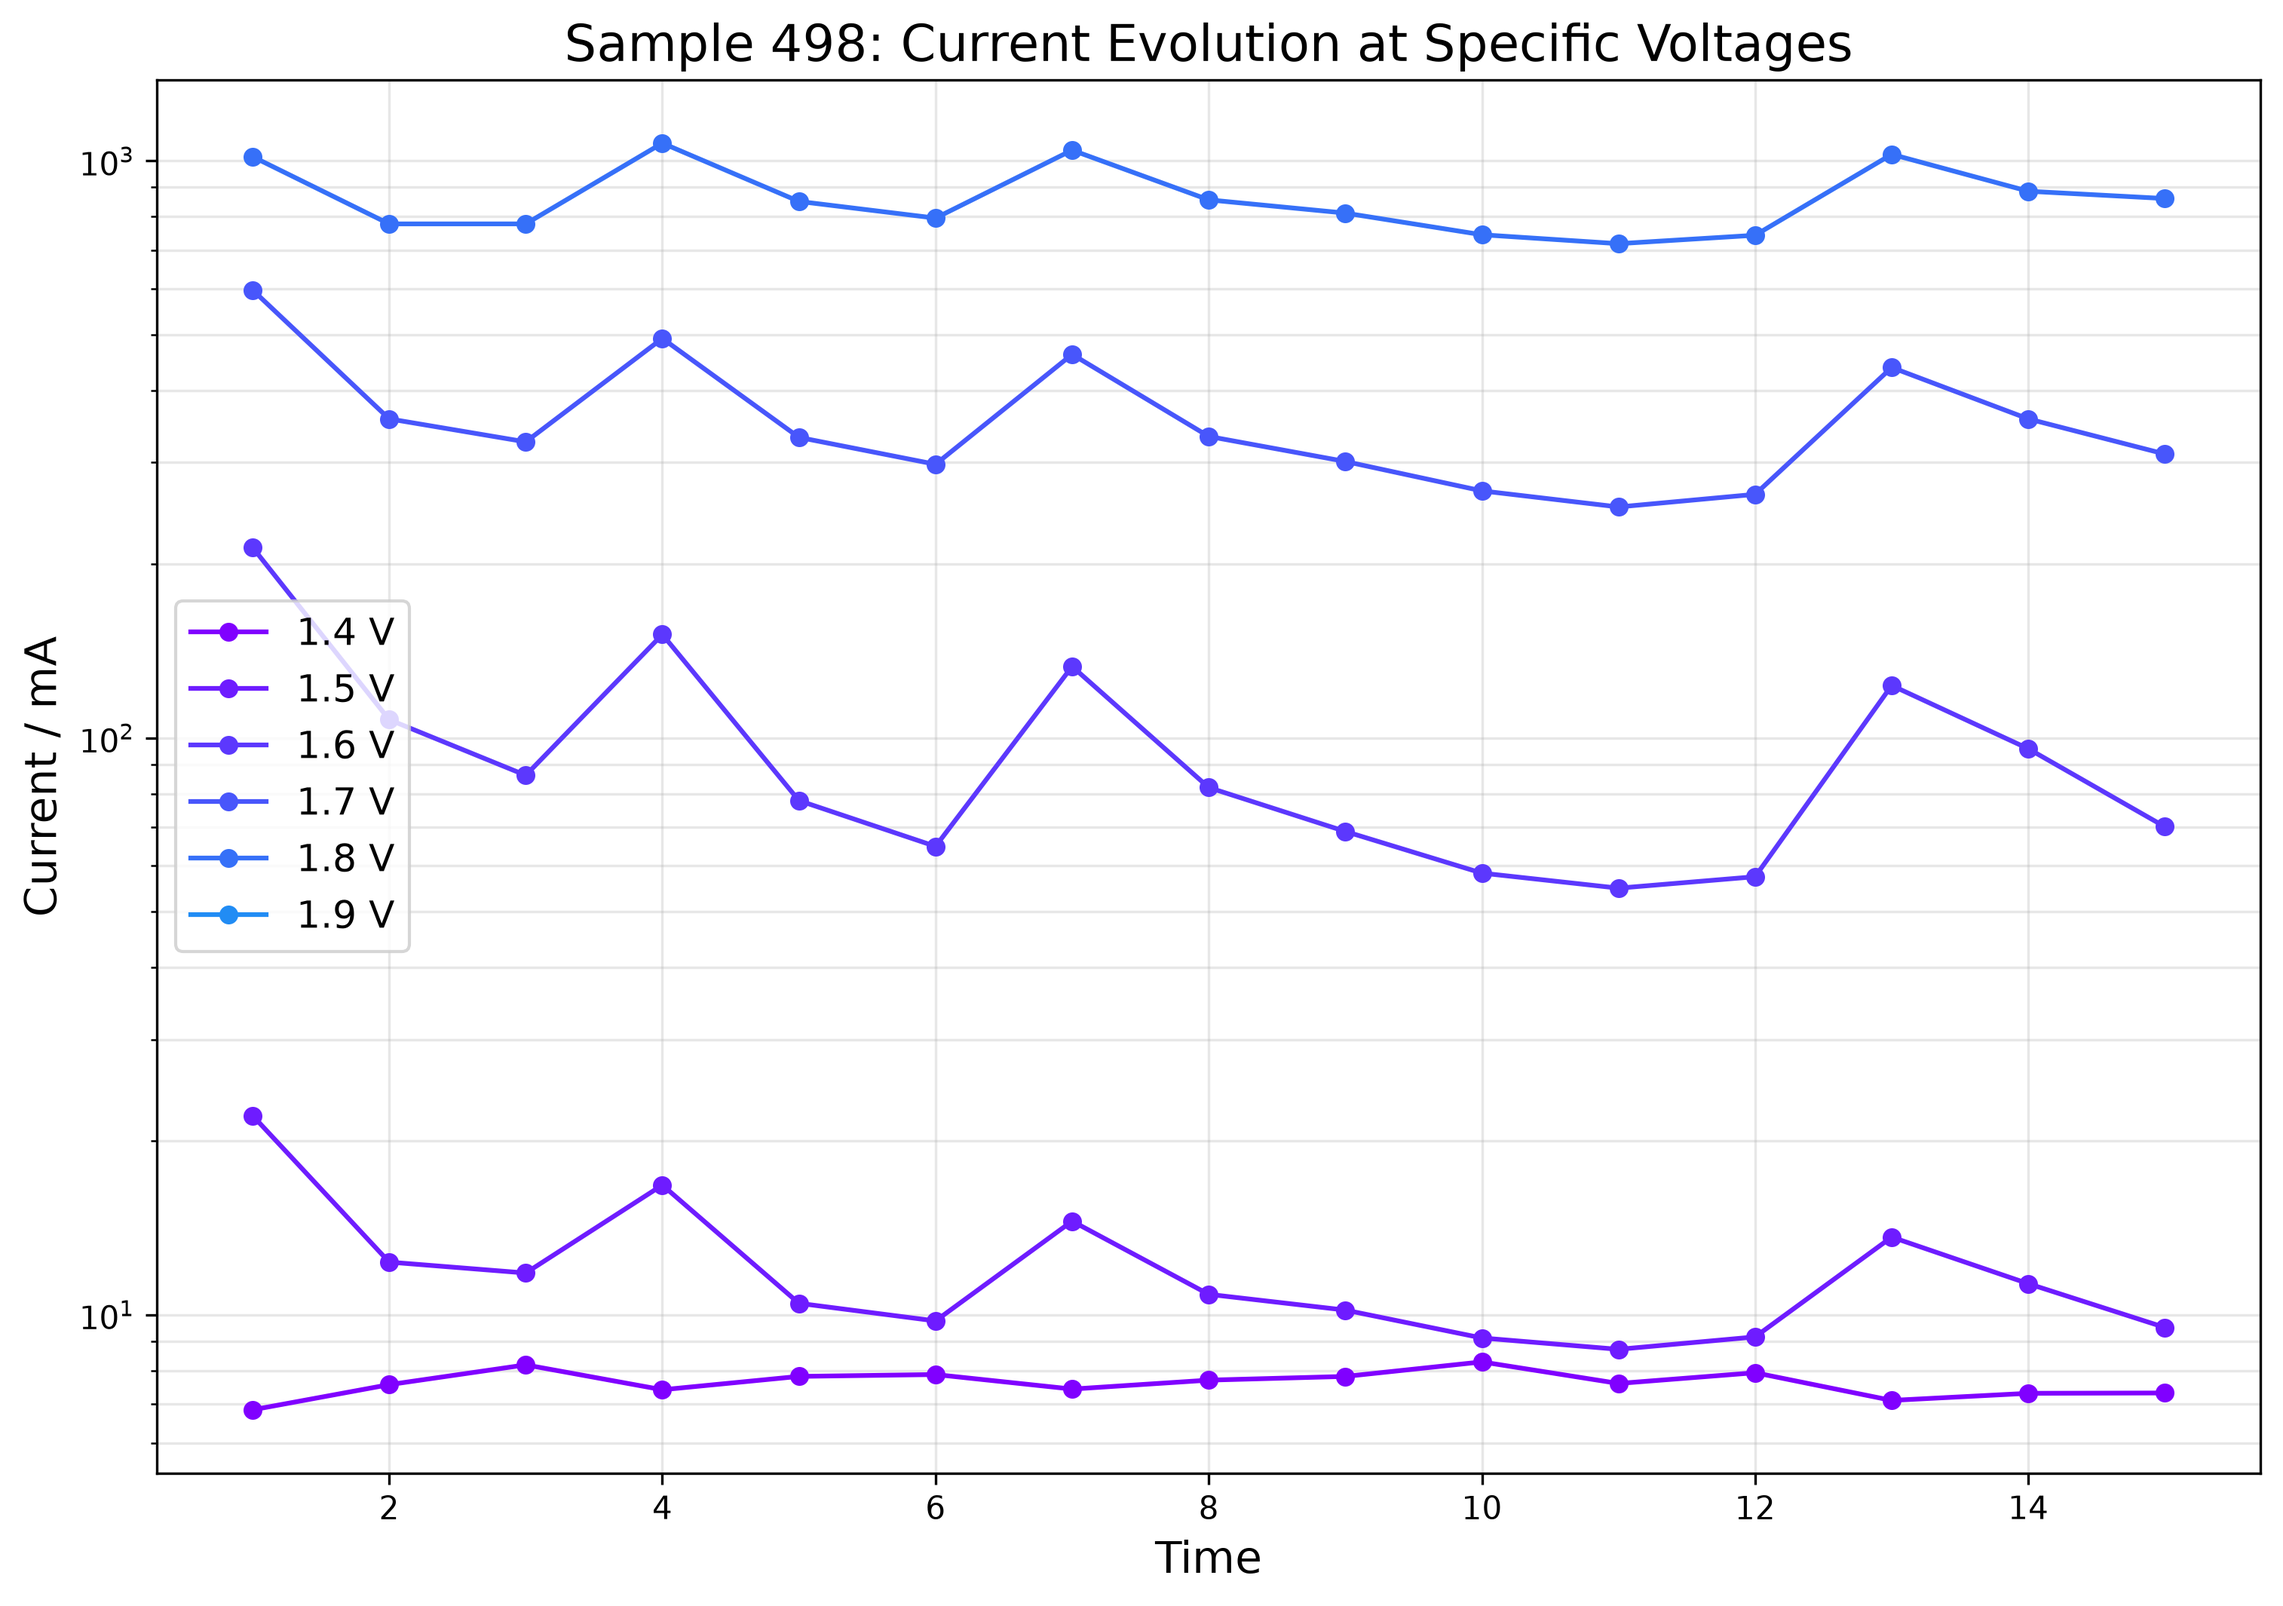
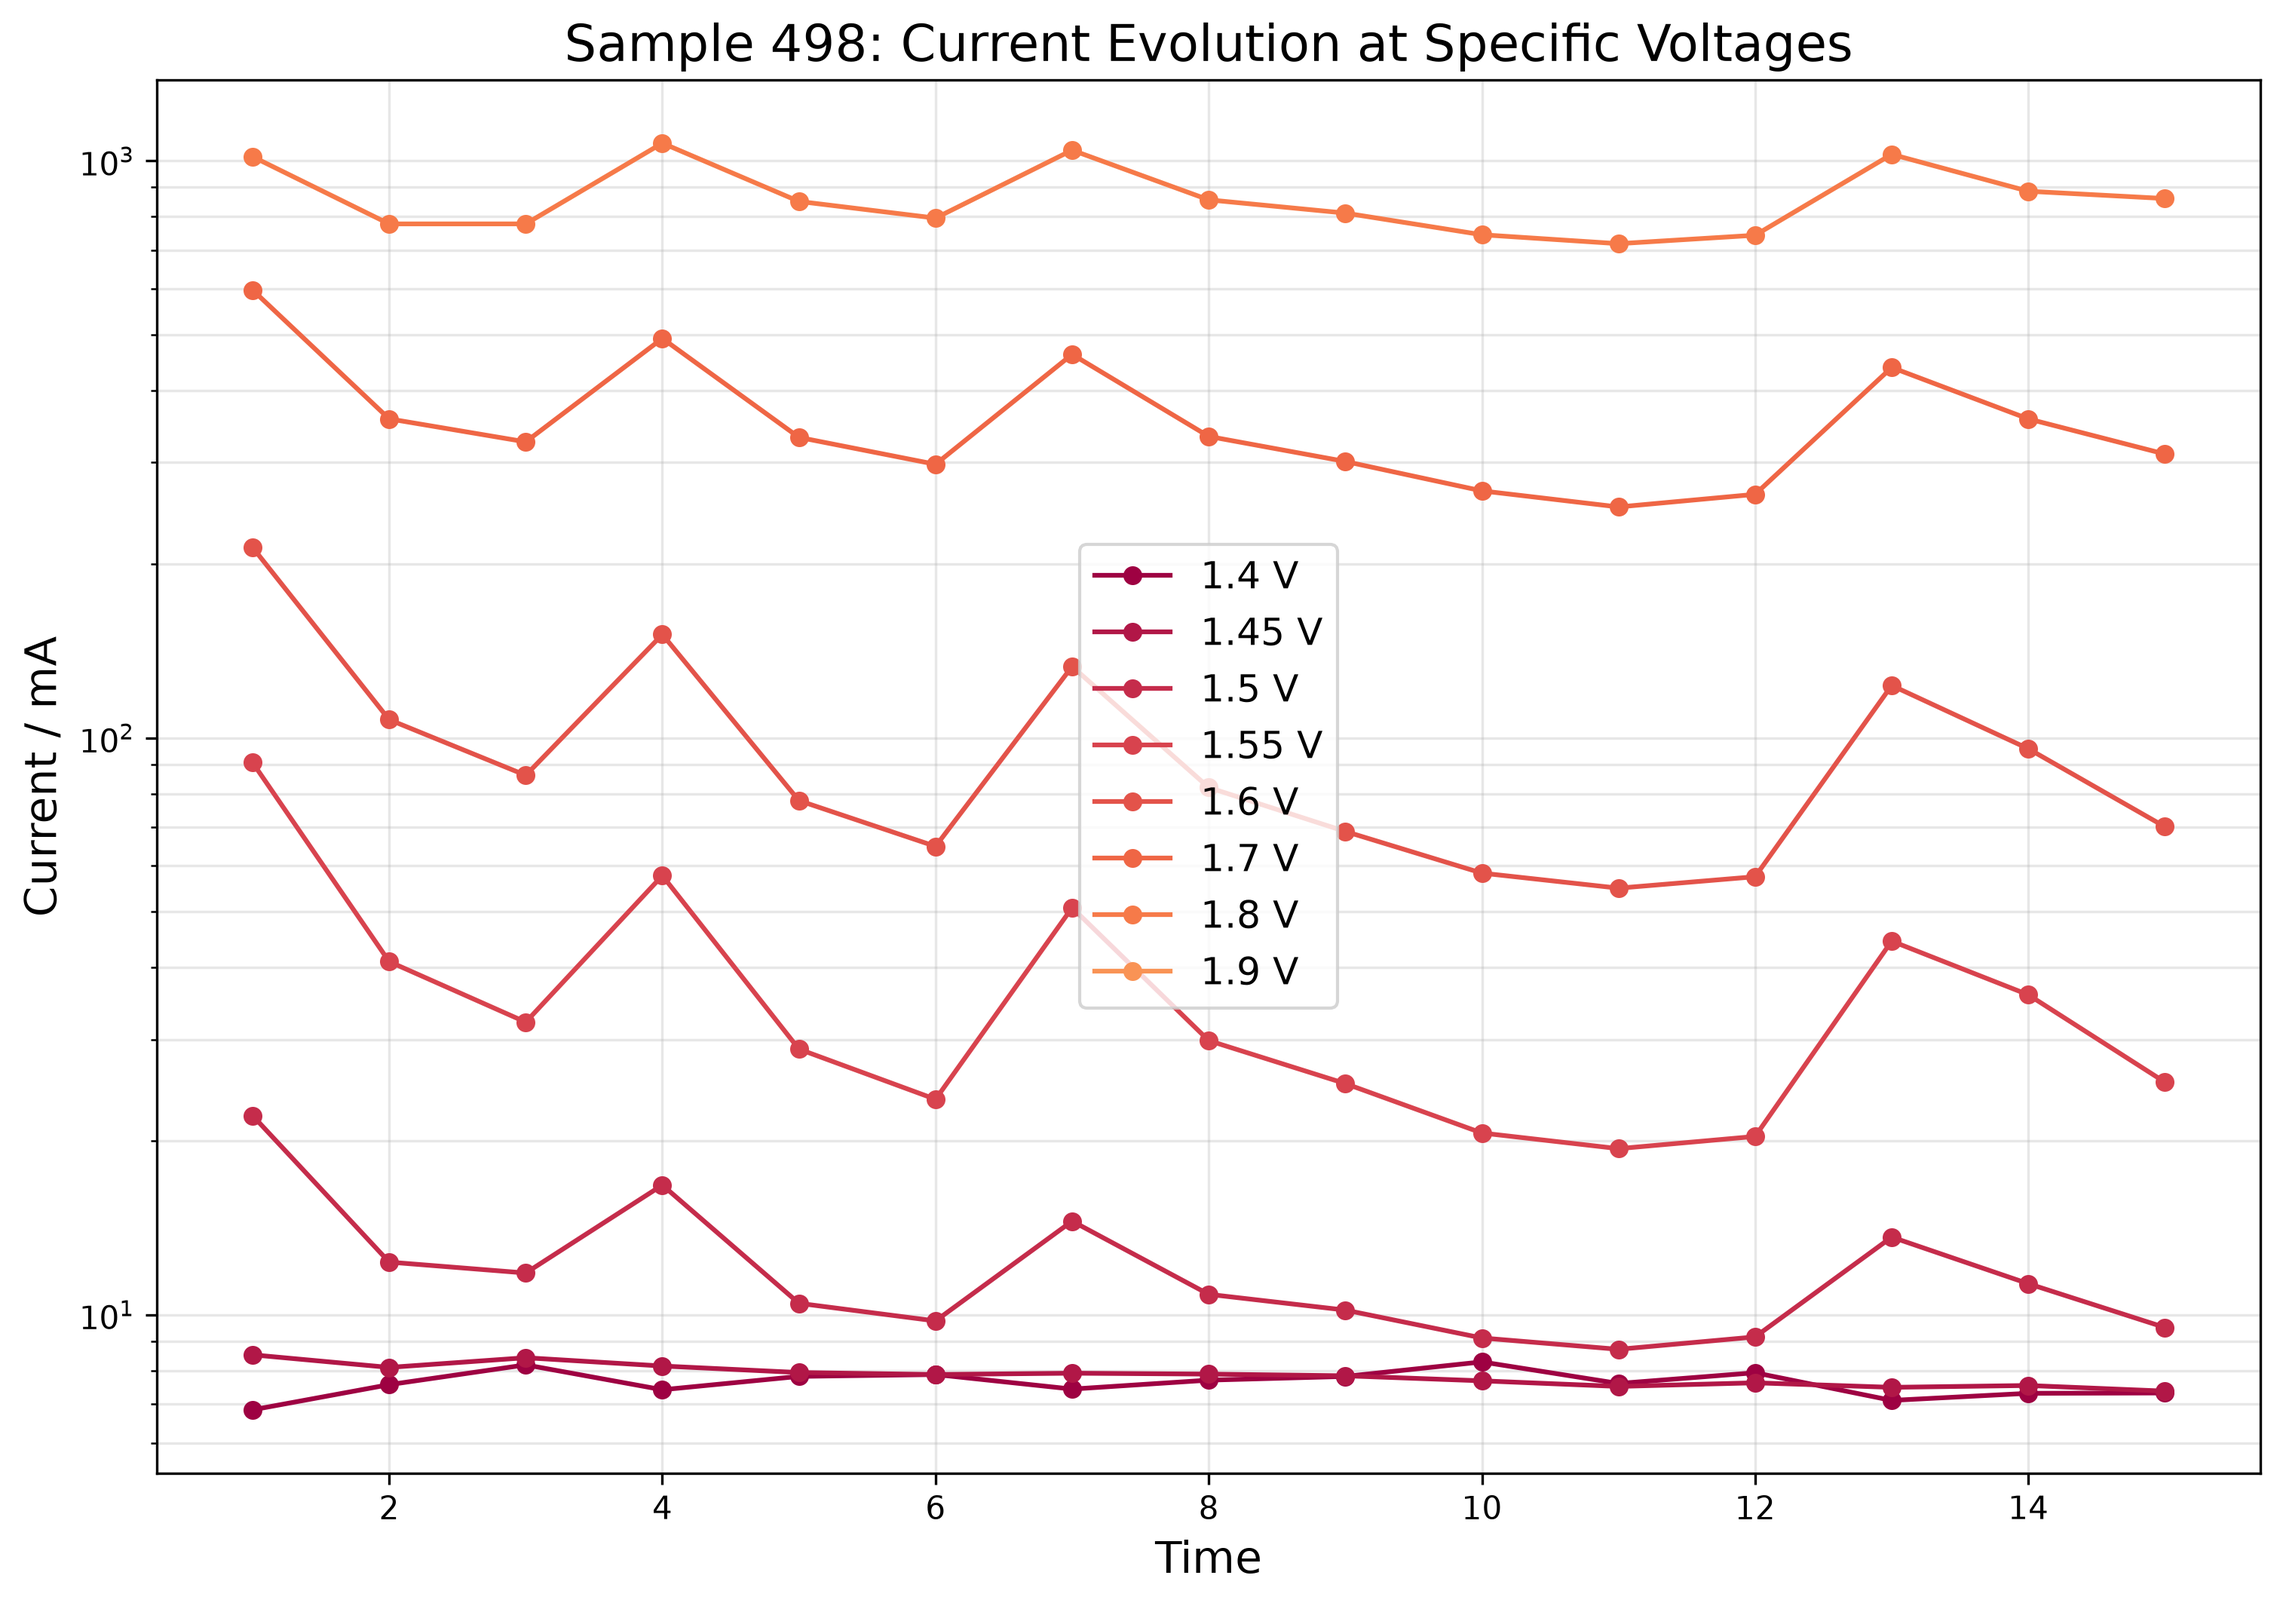
Update polarization graphs: Spectral colormap (red to purple), add 1.45V and 1.55V
- Changed rainbow colorscheme to Spectral (red to purple)
- Added target voltages 1.45 and 1.55 V for interpolation
- Added note to guide to run generate_polarization_graphs.py for new samples
- Regenerated all graphs for samples 474, 498, 499, 505

diff --git a/AEMs/scripts/generate_polarization_graphs.py b/AEMs/scripts/generate_polarization_graphs.py
@@ -15,10 +15,11 @@ from pathlib import Path
 SAMPLES = ['474', '498', '499', '505']
 
 # Target voltages for interpolation
-TARGET_VOLTAGES = [1.4, 1.5, 1.6, 1.7, 1.8, 1.9]
+TARGET_VOLTAGES = [1.4, 1.45, 1.5, 1.55, 1.6, 1.7, 1.8, 1.9]
 
-# Rainbow color scheme
-RAINBOW_COLORS = plt.cm.rainbow(np.linspace(0, 1, 28))  # 28 time points max
+# Rainbow color scheme from red to purple (violet)
+# Using Spectral colormap which goes from red through orange, yellow, green, blue to purple
+RAINBOW_COLORS = plt.cm.Spectral(np.linspace(0, 1, 28))  # 28 time points max
 
 def load_sample_data(sample_id):
     """Load sample data from CSV file."""

diff --git a/AEMs/AEM_EIS_FITTING_GUIDE.md b/AEMs/AEM_EIS_FITTING_GUIDE.md
@@ -36,7 +36,8 @@ For new samples, work in the respective sample folder (`AEMs/sample_XXX/`). Crea
 1. Add the new sample ID to the `SAMPLES` list in each script
 2. Run the scripts
 3. Ensure all output folders are created inside the sample's directory
-4. Push all changes to main branch
+4. Run `scripts/generate_polarization_graphs.py` to generate polarization curves and current evolution graphs for the new sample
+5. Push all changes to main branch
 
 ---
 
